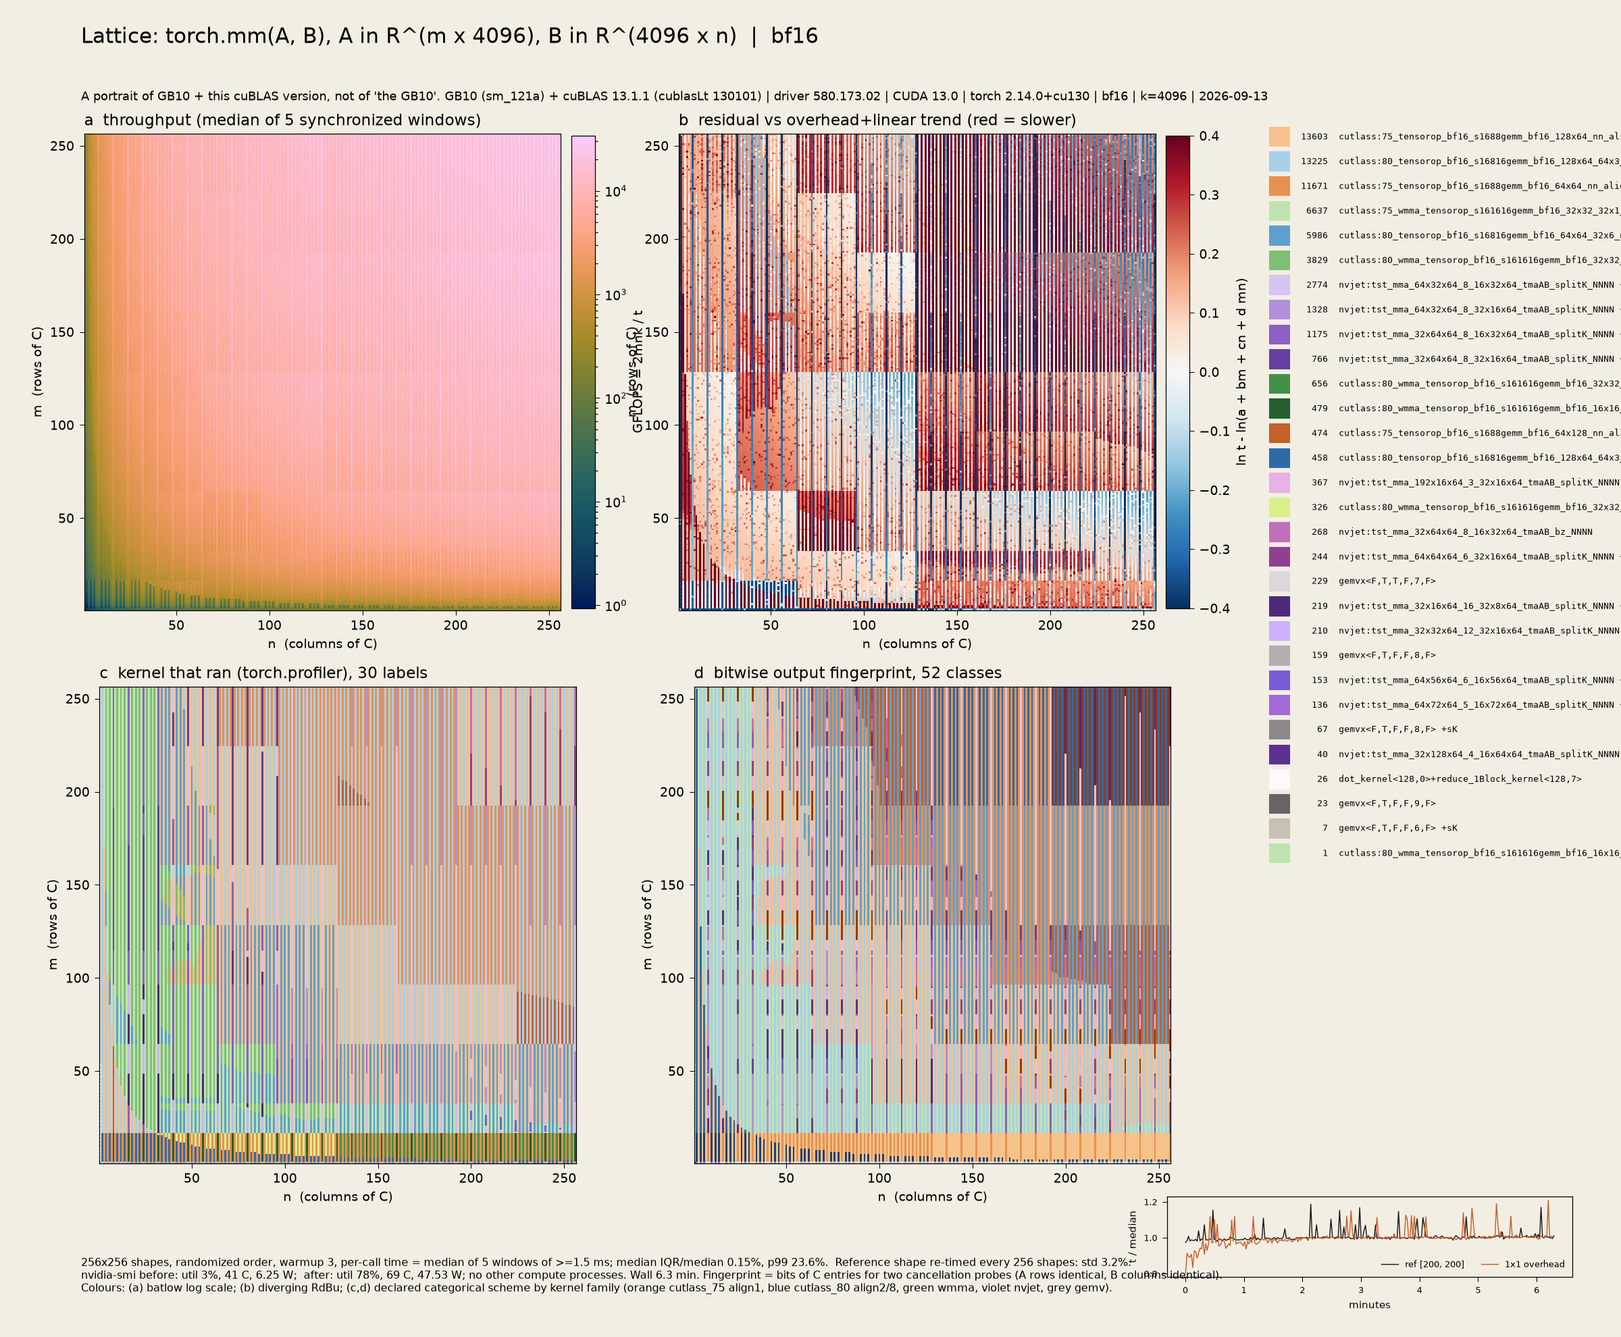
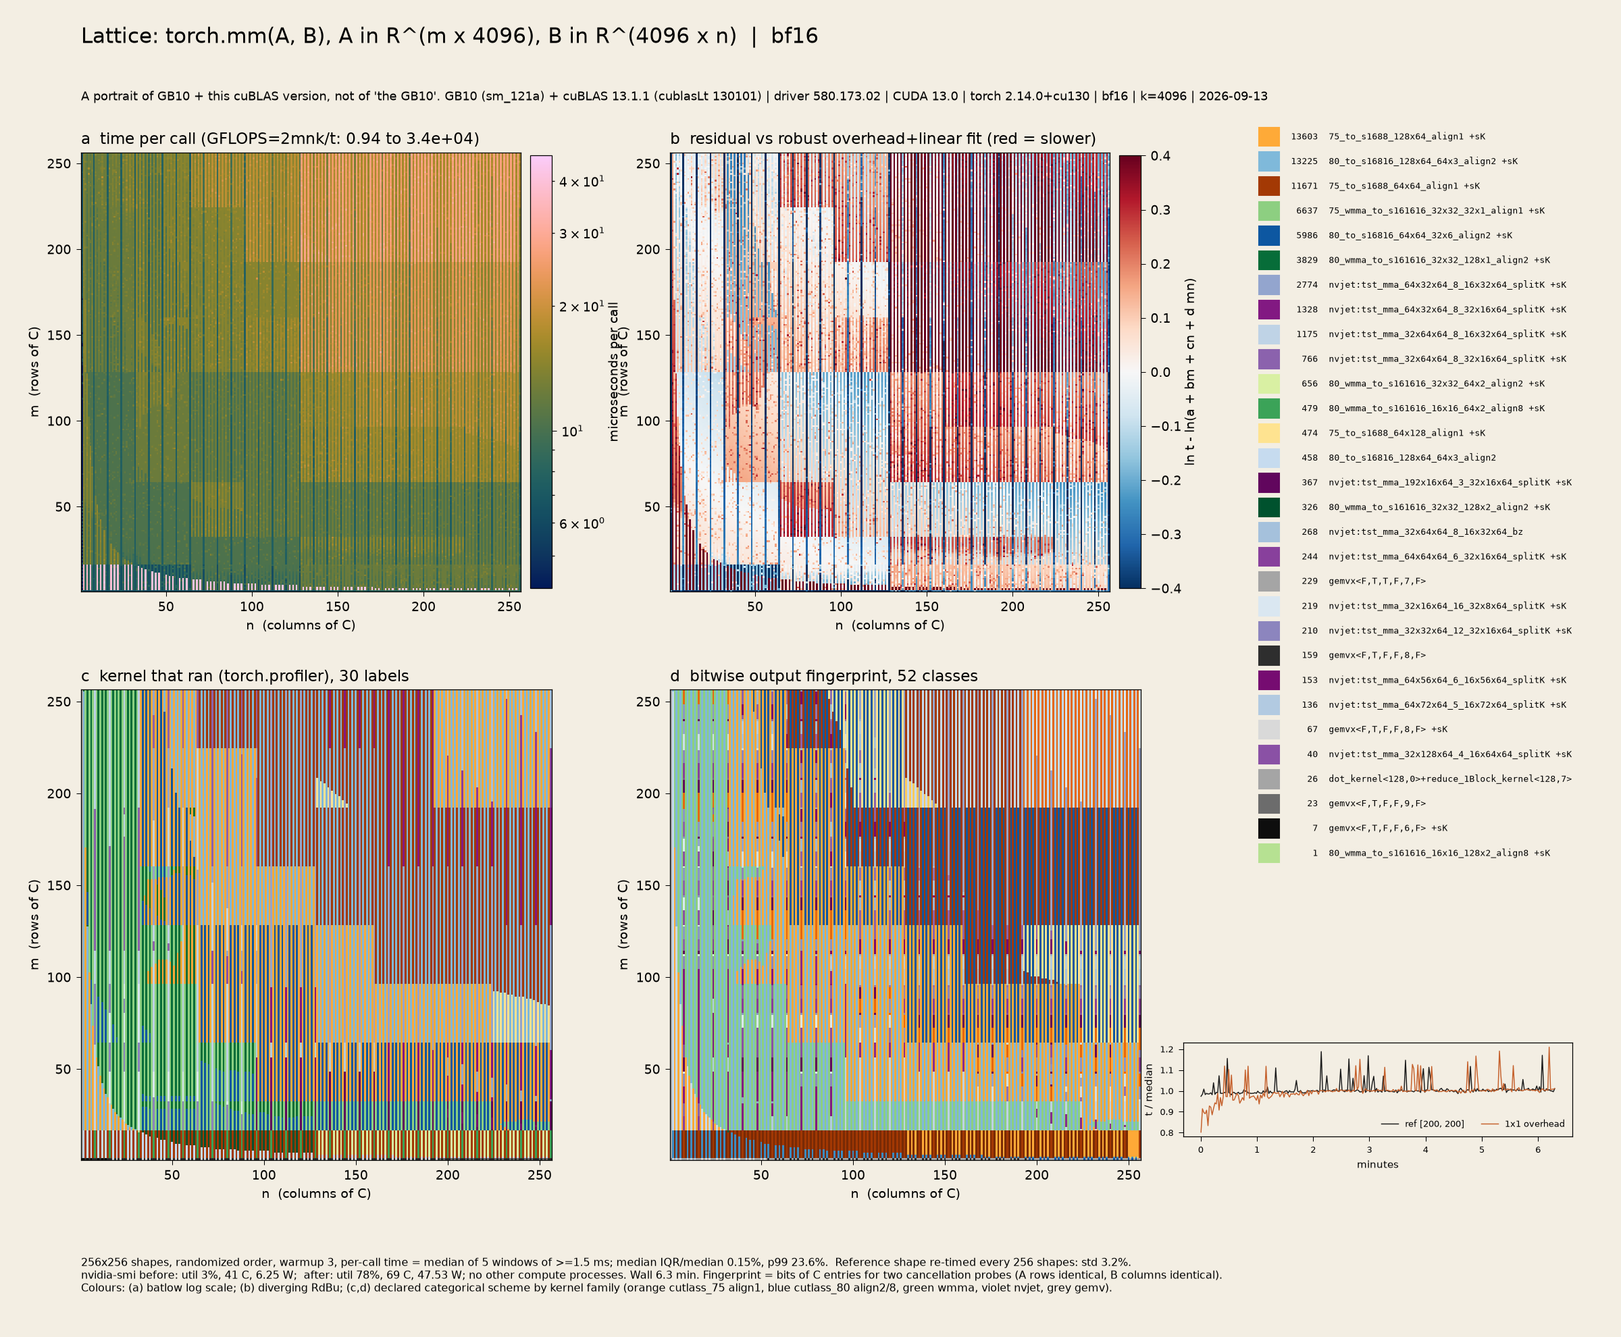
hardware/lattice: fp16/fp32/tf32 [1,256]^2 sweeps, retest, spectral/fire/mosaic/riso/contour plates, dtype triptych, tf32 diptych, alignment close-up, NOTES

diff --git a/hardware/lattice/render_compare.py b/hardware/lattice/render_compare.py
@@ -1,0 +1,138 @@
+"""render_compare.py - cross-run plates and statistics (no GPU):
+dtype triptych, allow_tf32 diptych, test-retest noise, alignment close-up, alignment statistics -> cache/stats.json.
+    OMP_NUM_THREADS=1 taskset -c 0-4 python render_compare.py
+"""
+import json
+import numpy as np
+import matplotlib; matplotlib.use("Agg")
+import matplotlib.pyplot as plt
+from render import *
+
+TAGS = dict(bf16="bf16_g256_k4096", fp16="fp16_g256_k4096", fp32="fp32_g256_k4096", fp32_tf32="fp32_tf32_g256_k4096")
+
+
+def align_stats(T, lo=33):
+    """Median over m of t(n) ratios by residue of n (n, m >= lo), relative to all n in the same row."""
+    G = T["G"]; t = T["t_med"].reshape(G, G); v = T["grid"]
+    sel = v >= lo
+    tt = t[np.ix_(sel, sel)]; nv = v[sel]
+    rel = tt / np.median(tt, axis=1, keepdims=True)
+    out = {}
+    for mod in (2, 4, 8, 16, 32, 64):
+        z = nv % mod == 0
+        out[f"n%{mod}==0 vs rest"] = float(np.median(rel[:, z]) / np.median(rel[:, ~z]))
+    mv = v[sel]; relm = tt / np.median(tt, axis=0, keepdims=True)
+    for mod in (2, 8, 16):
+        z = mv % mod == 0
+        out[f"m%{mod}==0 vs rest"] = float(np.median(relm[z]) / np.median(relm[~z]))
+    out["n odd / n even"] = float(np.median(rel[:, nv % 2 == 1]) / np.median(rel[:, nv % 2 == 0]))
+    return out
+
+
+def triptych(runs, stats):
+    fig, axs = plt.subplots(1, 3, figsize=(18, 6.6), facecolor=NIGHT)
+    for ax, (dt, (T, K)) in zip(axs, runs.items()):
+        r, _ = trend_residual(T)
+        ax.imshow(P.render_split(r, "sd_spectral"), origin="lower", extent=[.5, 256.5, .5, 256.5], interpolation="nearest")
+        ax.set_xticks([]); ax.set_yticks([])
+        nk = len(set(kernel_label(s) for s in K["names"])); nf = len(set(map(tuple, T["fp"])))
+        ax.set_title(f"{dt}   {nk} kernels  {nf} fingerprints   odd/even-n time x{stats[dt]['n odd / n even']:.2f}",
+                     color="#ddd", fontsize=10, loc="left")
+    fig.text(.01, .02, "Residual ln t vs robust overhead+linear fit, per-side rank-normalised Sohl-Dickstein Spectral split at 0 "
+             "(purple = faster than trend, red = slower; declared). m up, n right, [1,256]^2, k = 4096.   "
+             + stack_line(runs["bf16"][0]["info"]).split(" | bf16")[0] + " | " + runs["bf16"][0]["info"]["stack"]["date"],
+             color="#aaa", fontsize=8)
+    fig.subplots_adjust(left=.01, right=.99, top=.93, bottom=.06, wspace=.03)
+    fig.savefig(f"{GAL}/dtype_triptych_spectral.png", dpi=130, facecolor=NIGHT); plt.close(fig)
+    print("wrote triptych")
+
+
+def tf32_diptych(off, on):
+    T0, K0 = off; T1, K1 = on; G = T0["G"]
+    lr = np.log(T0["t_med"] / T1["t_med"]).reshape(G, G)        # > 0: TF32 faster
+    save_rgb(P.render_split(-lr, "sd_spectral"), "tf32_ratio_spectral", 8)
+    l0 = [kernel_label(s) for s in K0["names"]]; l1 = [kernel_label(s) for s in K1["names"]]
+    same = np.array([a == b for a, b in zip(l0, l1)]).reshape(G, G)
+    fig, axs = plt.subplots(1, 3, figsize=(18, 6.6), facecolor=PAPER)
+    for ax, (T, K, ttl) in zip(axs[:2], [(T0, K0, "allow_tf32 = False"), (T1, K1, "allow_tf32 = True")]):
+        kid, kv = categorize([kernel_label(s) for s in K["names"]], G)
+        ax.imshow(mosaic_rgb(kid, kernel_colors(kv)), origin="lower", extent=[.5, 256.5, .5, 256.5], interpolation="nearest")
+        ax.set_title(f"{ttl}: {len(kv)} kernel labels; top: {short_label(kv[0][0])[:38]}", loc="left", fontsize=9)
+    im = axs[2].imshow(np.exp(lr), origin="lower", extent=[.5, 256.5, .5, 256.5], cmap="PuOr_r",
+                       norm=matplotlib.colors.LogNorm(vmin=1 / 3, vmax=3), interpolation="nearest")
+    cb = fig.colorbar(im, ax=axs[2], fraction=.046, pad=.02); cb.set_label("t(off) / t(on)   (>1: TF32 faster)")
+    cb.set_ticks([1 / 3, .5, 1, 2, 3]); cb.set_ticklabels(["1/3", "1/2", "1", "2", "3"]); cb.minorticks_off()
+    axs[2].set_title(f"speed-up; same kernel at {100*same.mean():.1f}% of shapes; median x{np.median(np.exp(lr)):.2f}", loc="left", fontsize=9)
+    for ax in axs:
+        ax.set_xlabel("n"); ax.set_ylabel("m"); ax.set_facecolor(PAPER)
+    fig.suptitle("fp32 matmul with and without TF32 - GB10 + cuBLAS " + T0["info"]["stack"]["cublas"], x=.01, ha="left")
+    fig.text(.01, .01, stack_line(T0["info"]), fontsize=7.5)
+    fig.subplots_adjust(left=.04, right=.97, top=.88, bottom=.1, wspace=.22)
+    fig.savefig(f"{GAL}/tf32_diptych_plate.png", dpi=130, facecolor=PAPER); plt.close(fig)
+    return dict(tf32_same_kernel_frac=float(same.mean()), tf32_median_speedup=float(np.median(np.exp(lr))),
+                tf32_max_speedup=float(np.exp(lr).max()), tf32_min_speedup=float(np.exp(lr).min()))
+
+
+def retest(T256, R):
+    G = R["G"]; a = T256["t_med"].reshape(256, 256)[:G, :G]; b = R["t_med"].reshape(G, G)
+    lr = np.log(b / a)
+    fa = T256["fp"].reshape(256, 256, -1)[:G, :G].reshape(G * G, -1)
+    st = dict(retest_median_abs_log_ratio=float(np.median(np.abs(lr))), retest_frac_gt_5pct=float((np.abs(lr) > np.log(1.05)).mean()),
+              retest_fp_identical_frac=float((fa == R["fp"]).all(1).mean()), retest_iqr_median=float(np.median(R["iqr"])),
+              retest_ref_std=float(R["ref"][:, 2].std() / np.median(R["ref"][:, 2])))
+    return st, lr
+
+
+def closeup_plate(R, K, lr):
+    G = R["G"]; r, _ = trend_residual(R)
+    kid, kv = categorize([kernel_label(s) for s in K["names"]], 256)
+    kid = kid[:G, :G]
+    fig = plt.figure(figsize=(15, 8.4), facecolor=PAPER)
+    ax = fig.add_axes([.04, .1, .5, .8]); ax2 = fig.add_axes([.6, .55, .36, .35]); ax3 = fig.add_axes([.6, .1, .36, .33])
+    ax.imshow(P.render_split(r, "sd_spectral"), origin="lower", extent=[.5, G + .5, .5, G + .5], interpolation="nearest")
+    ed = boundaries(kid)
+    yy, xx = np.nonzero(ed)
+    for g in range(8, G + 1, 8):
+        ax.axvline(g + .5, color=INK, lw=.35 if g % 32 else .9, alpha=.55); ax.axhline(g + .5, color=INK, lw=.35 if g % 32 else .9, alpha=.55)
+    ax.set_xticks(range(0, G + 1, 16)); ax.set_yticks(range(0, G + 1, 16)); ax.set_xlabel("n"); ax.set_ylabel("m")
+    ax.set_title("[1,128]^2 re-measured (seed 1, 9 windows of 3 ms): residual, Spectral split at 0; hairlines every 8, bold every 32", loc="left", fontsize=9)
+    v = R["grid"]; t = R["t_med"].reshape(G, G); sel = v >= 17
+    rel = t[np.ix_(sel, sel)] / np.median(t[np.ix_(sel, sel)], axis=1, keepdims=True)
+    res = [np.median(rel[:, (v[sel] % 8) == q]) for q in range(8)]
+    ax2.bar(range(8), res, color=["#5e4fa2" if q == 0 else ("#3288bd" if q % 2 == 0 else "#9e0142") for q in range(8)])
+    ax2.set_ylim(min(res) * .95, max(res) * 1.03); ax2.set_xlabel("n mod 8"); ax2.set_ylabel("t / row median  (m, n >= 17)")
+    ax2.set_facecolor(PAPER)
+    im = ax3.imshow(lr, origin="lower", cmap="RdBu_r", vmin=-.1, vmax=.1, extent=[.5, G + .5, .5, G + .5], interpolation="nearest")
+    fig.colorbar(im, ax=ax3, fraction=.046, pad=.02).set_label("ln(t retest / t first run)")
+    ax3.set_title("test-retest (independent random order)", loc="left", fontsize=9); ax3.set_facecolor(PAPER)
+    fig.text(.04, .02, "Alignment close-up, bf16. " + stack_line(R["info"]), fontsize=7.5)
+    fig.savefig(f"{GAL}/alignment_closeup_plate.png", dpi=150, facecolor=PAPER); plt.close(fig)
+    save_rgb(P.render_split(r, "sd_spectral"), "alignment_closeup_spectral", 16)
+
+
+def main():
+    stats = {}
+    runs = {dt: (load("time", t), load("kernels", t)) for dt, t in TAGS.items() if exists("time", t) and exists("kernels", t)}
+    for dt, (T, K) in runs.items():
+        stats[dt] = align_stats(T)
+        stats[dt].update(n_kernels=len(set(kernel_label(s) for s in K["names"])), n_fp=len(set(map(tuple, T["fp"]))),
+                         iqr_median=float(np.median(T["iqr"])), iqr_p99=float(np.percentile(T["iqr"], 99)),
+                         ref_std=float(T["ref"][:, 2].std() / np.median(T["ref"][:, 2])),
+                         one_range_us=[float(T["ref"][:, 3].min() * 1e6), float(T["ref"][:, 3].max() * 1e6)],
+                         t_us=[float(T["t_med"].min() * 1e6), float(T["t_med"].max() * 1e6)],
+                         gflops_max=float(gflops(T).max()), smi_before=T["info"]["smi_before"], smi_after=T["info"]["smi_after"],
+                         wall_min=T["info"]["wall_s"] / 60)
+    if all(d in runs for d in ("bf16", "fp16", "fp32")):
+        triptych({d: runs[d] for d in ("bf16", "fp16", "fp32")}, stats)
+    if "fp32" in runs and "fp32_tf32" in runs:
+        stats["tf32"] = tf32_diptych(runs["fp32"], runs["fp32_tf32"])
+    if exists("time", "bf16_g128_k4096_retest") and "bf16" in runs:
+        R = load("time", "bf16_g128_k4096_retest")
+        st, lr = retest(runs["bf16"][0], R); stats["retest"] = st
+        closeup_plate(R, runs["bf16"][1], lr)
+    json.dump(stats, open(f"{CACHE}/stats.json", "w"), indent=1)
+    print(json.dumps({k: {kk: vv for kk, vv in v.items() if "smi" not in kk} for k, v in stats.items()}, indent=1))
+
+
+if __name__ == "__main__":
+    main()

diff --git a/hardware/lattice/render.py b/hardware/lattice/render.py
@@ -53,25 +53,25 @@ def save_rgb(img, name, scale=1):
     print("wrote", name, a.shape)
 
 
-FAMILY = [  # (substring, base hue colours light->dark) : declared categorical scheme by kernel family
-    ("s1688gemm", ["#f6c28b", "#e8914f", "#c5602b", "#8f3b1b"]),            # cutlass_75 tensorop, align1
-    ("s16816gemm", ["#a9cfe8", "#5e9fd0", "#2f6aa8", "#1b3f73"]),           # cutlass_80 tensorop, align2/8
-    ("wmma", ["#bfe3b0", "#7fbf73", "#43904a", "#23602f", "#d9ef8b"]),      # cutlass wmma
-    ("simt_sgemm", ["#f2b6c6", "#d9738f", "#a8425f", "#6e2340"]),           # fp32 cutlass simt
-    ("nvjet", ["#d7c3ef", "#b08fdb", "#8a60c4", "#6440a0", "#e7b0e6", "#c070b9", "#91408f", "#4b2a78",
-               "#cfb0ff", "#7a5bd6", "#a36bd8", "#5a3190"]),                   # nvjet (cublasLt JIT-ish)
-    ("gemmSN", ["#f7e08a", "#d6b23c"]),                                     # small-n gemm
-    ("gemvx", ["#d9d9d9", "#b0b0b0", "#8a8a8a", "#666666", "#c8c0b0"]),     # vector cases
-    ("dot_kernel", ["#fafafa"]), ("", ["#555555", "#777777", "#999999"]),
+FAMILY = [  # (substring in kernel label, matplotlib sequential map): declared categorical scheme = hue by kernel family,
+    # members of a family take interleaved positions along that ramp (so neighbours by area rank contrast in lightness)
+    ("s1688gemm", "YlOrBr"),       # cutlass_75 tensorop s1688 (align1)
+    ("s16816gemm", "Blues"),       # cutlass_80 tensorop s16816 (align2/8)
+    ("wmma", "YlGn"),              # cutlass wmma
+    ("simt_sgemm", "RdPu"),        # fp32 cutlass simt sgemm
+    ("nvjet", "BuPu"),             # cublasLt nvjet
+    ("gemmSN", "Wistia"),          # small-matrix gemm
+    ("gemvx", "Greys"), ("dot_kernel", "Greys"), ("", "Greys"),
 ]
+POS = [.45, .85, .25, .65, .95, .35, .75, .15, .55, .9, .3, .7, .5, .8, .2, .6, .4]
 
 
 def kernel_colors(vocab):
     used = collections.defaultdict(int); cols = []
     for lab, _ in vocab:
-        for key, pal in FAMILY:
+        for key, cm in FAMILY:
             if key in lab:
-                cols.append(pal[used[key] % len(pal)]); used[key] += 1; break
+                cols.append(plt.get_cmap(cm)(POS[used[key] % len(POS)])); used[key] += 1; break
     return cols
 
 
@@ -119,8 +119,10 @@ def plate_spectral(tag, T, scale=8):
 def plate_dark(tag, T, scale=8):
     g = np.log10(gflops(T))
     u = P.rank_normalize(g)
-    save_rgb(plt.get_cmap("cmc.lajolla_r" if "cmc.lajolla_r" in plt.colormaps() else "magma")(u)[..., :3],
-             f"throughput_dark_{tag}", scale)
+    save_rgb(plt.get_cmap("cmc.lajolla")(u)[..., :3], f"throughput_dark_{tag}", scale)
+    r, _ = trend_residual(T)
+    import colorcet  # noqa: F401  (registers cet_ maps)
+    save_rgb(plt.get_cmap("cet_fire")(1 - P.rank_normalize(r))[..., :3], f"lattice_fire_{tag}", scale)
 
 
 def plate_mosaic(tag, T, K, scale=8):
@@ -129,9 +131,19 @@ def plate_mosaic(tag, T, K, scale=8):
     cols = kernel_colors(kv)
     big = np.repeat(np.repeat(kid, scale, 0), scale, 1)
     save_rgb(mosaic_rgb(big, cols), f"dispatch_mosaic_{tag}")
-    ed = boundaries(big)
-    line = np.ones(big.shape + (3,)) * to_rgb(PAPER); line[ed] = to_rgb(INK)
-    save_rgb(line, f"dispatch_lines_{tag}")
+    # parity-split contours: n odd and n even are two interleaved dispatch lattices; draw each one's region
+    # boundaries (computed within its own sub-lattice, so the parity stripes themselves don't become lines)
+    covs = []
+    for off in (0, 1):                      # column index 0 -> n = 1 (odd), 1 -> n = 2 (even)
+        sub = kid[:, off::2]
+        e = np.repeat(np.repeat(sub, scale, 0), 2 * scale, 1)
+        e = binary_dilation(boundaries(e), iterations=1)
+        e = np.roll(e, off * scale, 1)[:, :big.shape[1]]
+        covs.append(e.astype(float))
+    save_rgb(P.overprint([covs[0] * .9, np.roll(covs[1], (2, 3), (0, 1)) * .9], ["#ff48b0", "#0078bf"], paper=PAPER),
+             f"dispatch_contours_riso_{tag}")
+    line = np.ones(big.shape + (3,)) * to_rgb(PAPER); line[(covs[0] + covs[1]) > 0] = to_rgb(INK)
+    save_rgb(line, f"dispatch_contours_ink_{tag}")
     fid, fv, fcols = label_fp_by_kernel(T, K)
     save_rgb(mosaic_rgb(np.repeat(np.repeat(fid, scale, 0), scale, 1), fcols), f"fingerprint_mosaic_{tag}")
     return kid, kv, cols, fid, fv

diff --git a/hardware/lattice/NOTES.md b/hardware/lattice/NOTES.md
@@ -1,24 +1,52 @@
 # Lattice NOTES (living handoff)
 
-## State (2026-09-13 ~22:30)
-- Stack: GB10 sm_121a (cap 12.1), driver 580.173.02, CUDA 13.0, torch 2.14.0+cu130, cuBLAS 13.1.1 (cublasLt 130101), BLAS backend cuBLAS, no CUBLAS_WORKSPACE_CONFIG.
-- Setup: C = torch.mm(A, B), A m x k, B k x n, **k = 4096 fixed**; sweep (m, n). Rows of A identical, columns of B identical
-  (cancellation probes, `sweep.py:masters`) so output bits = shape-independent algorithm fingerprint.
-- `sweep.py` (compute, GPU) -> `cache/{time,kernels}_<dtype>[_tf32]_<grid>_k4096.npz`; `run_all.sh` runs jobs sequentially,
-  waits for GPU <=50 C & idle before each; logs in `logs/` (`campaign.log` has nvidia-smi after each job).
-- `common.py` (load/kernel names), `quicklook.py TAG` (stats + preview), `render.py` (all single-dtype plates).
-- Rendering during sweeps is pinned: `OMP_NUM_THREADS=1 taskset -c 0-4` (A725 efficiency cores).
+## Setup
+- Stack: GB10 sm_121a (capability 12.1), driver 580.173.02, CUDA 13.0, torch 2.14.0+cu130, **cuBLAS 13.1.1 (cublasLt 130101)**,
+  BLAS backend cuBLAS, CUBLAS_WORKSPACE_CONFIG unset, date 2026-09-13.
+- C = torch.mm(A, B, out=C), A m x k, B k x n, **k = 4096 fixed**; sweep (m, n). All rows of A identical, all columns of B identical
+  (cancellation probes, `sweep.py:masters`: 64 products of +-2^E that cancel exactly + 4032 small ones), so output bits are a
+  shape-independent fingerprint of accumulation order/precision. Two probes per dtype (E from PROBE_E).
+- Timing per shape: 3 warmup, 1 estimate, N calls per window so window >= 1.5 ms, median of 5 windows. Randomized order (seed 0).
+  Every 256 shapes: reference 200x200 and 1x1 re-timed. nvidia-smi + compute-apps + loadavg logged before/after (in npz info + logs/campaign.log).
+- Kernel names: `--mode kernels`, torch.profiler chrome trace, kernels mapped to shapes via correlation id -> cuda_runtime/cuda_driver launch ts -> record_function range.
+- Files: `sweep.py` (GPU), `run_all.sh` (sequential jobs; waits for GPU <= 50 C and util <= 5 % before each), `common.py`, `quicklook.py TAG`,
+  `render.py` (per-run plates), `render_compare.py` (triptych, tf32, retest, alignment close-up, writes `cache/stats.json`).
+  cache/ is gitignored (npz ~ few MB each).
+- Rendering during sweeps: `OMP_NUM_THREADS=1 taskset -c 0-4 nice` (A725 cores 0-4,10-14; X925 = 5-9,15-19).
 
-## Findings so far (bf16, [1,256]^2, 6.3 min)
-- 30 kernel labels (profiler): cutlass_75 s1688 align1 (odd n), cutlass_80 s16816 align2 (even n), wmma 32x32, nvjet tst_mma (several tilings),
-  gemvx for m=1 or n=1, dot for 1x1. Vertical stripes = parity of n; horizontal bands at m = 16, 32, 64, 128, 192, 224; hyperbolic boundaries (m*n const) at small sizes.
-- 52 fingerprint classes; purity kernel->fp 0.79, fp->kernel 0.87 (fingerprints split nvjet by tiling, merge some cutlass).
-- Timing: t 4.2-46 us/call; median IQR/median 0.15 %, p99 24 %; ref (200x200) std 3.2 %; 1x1 overhead probe ramps 0.8->1.0 in first 30 s then flat.
+## Done (all clean: no other compute apps; start temp <= 50 C, util 0-3 %)
+| run | wall | kernels | fp classes | IQR/med median, p99 | ref std | odd/even-n time | n%8==0 time vs rest |
+|---|---|---|---|---|---|---|---|
+| bf16 g256 | 6.3 min | 30 | 52 | 0.15 %, 24 % | 3.2 % | 1.29 | 0.70 |
+| fp16 g256 | 6.2 | 36 | 55 | 0.17 %, 26 % | 3.2 % | 1.24 | 0.72 |
+| fp32 g256 | 7.1 | 18 | 14 | 0.12 %, 28 % | 3.0 % | 1.00 | 1.00 (n%64: 0.95) |
+| fp32 tf32 g256 | 6.6 | 16 | 13 | 0.14 %, 31 % | 3.4 % | 1.02 | 0.85 |
+| bf16 g128 retest (seed 1, 9x3 ms) | ~5 | - | 100 % identical fp to first run | 0.11 % | 0.29 % | - | n%8==0: 0.64x row median |
+- Test-retest (bf16 [1,128]^2, independent order): median |ln t2/t1| = 0.28 %, 9.8 % of shapes differ > 5 % (isolated speckle, no structure);
+  fingerprints bitwise identical at 100 % of shapes -> dispatch is deterministic, timing speckle is noise.
+- TF32: same kernel at only 0.8 % of shapes; median speed-up x1.50 (range 0.54-5.2).
+- 1x1 overhead probe 6.1-9.7 us; ramps up ~20 % in the first ~30 s of each run then flat (CPU-side warm state), ref 200x200 flat with spikes to 1.2.
+- Temperature rises 41 -> ~69 C during a 6-min sweep (GPU at ~78 % util, 48 W).
+- Structure: bf16/fp16 = vertical stripes by n parity (cutlass_75 s1688 align1 for odd n, cutlass_80 s16816 align2 for even n, align8/wmma
+  on multiples of 8), horizontal bands at m = 16/32/64/128/192/224, hyperbolic (m*n = const) boundaries at small sizes, nvjet islands.
+  fp32 = no alignment stripes, large polygonal cells of cutlass simt sgemm tilings (128x32, 64x64, 128x64...) with smooth internal gradients.
+  Rows of C (m) never alternate; only n (columns of C = rows of cuBLAS's column-major output... columns in torch) carries alignment.
 
-## Campaign queued (nohup run_all.sh, started 22:21): fp16 g256, fp32 g256, fp32 tf32 g256 (+kernels each),
-  bf16 g128 retest (seed 1, reps 9, 3 ms windows, tag _retest), s2048 (stride 13) bf16/fp16/fp32 (+kernels).
-  Check `logs/campaign.log`; it ends with "=== ... done".
+## Gallery (gallery/)
+- Per run TAG (bf16/fp16/fp32/fp32_tf32 _g256_k4096): lattice_spectral_TAG (hero, SD Spectral split of residual), lattice_aurora_ember/
+  cyanotype_vandyke (palettes.py pairings), lattice_fire_TAG (dark, cet_fire of rank residual), throughput_dark_TAG (lajolla rank GFLOPS),
+  dispatch_mosaic_TAG, fingerprint_mosaic_TAG, dispatch_contours_riso_TAG (pink = odd-n sub-lattice region contours, blue = even-n),
+  dispatch_contours_ink_TAG, riso_closeup_TAG_1-128, plate_TAG (scientific plate with stack caption).
+- dtype_triptych_spectral.png, tf32_diptych_plate.png, tf32_ratio_spectral.png, alignment_closeup_plate.png, alignment_closeup_spectral.png.
+- Viewed: fp32 dispatch mosaic (RdPu cells) is excellent; bf16/fp16 mosaics read grey when downscaled (parity stripes average) - fine at full res.
+  alignment_closeup_plate: retest panel is small, could be enlarged.
+- Strongest so far: lattice_spectral_fp32_g256_k4096.png, lattice_spectral_bf16_g256_k4096.png, dtype_triptych_spectral.png.
 
-## Next
-- render_compare.py: dtype triptych, tf32 ratio diptych (Spectral split at ratio 1), retest noise map, alignment close-up plate with mod-8 grid.
-- README with gallery; commit via `art/_shared/commit.sh hardware/lattice "..."`.
+## Next (successor)
+1. Large sweep (not yet run; campaign runner stopped deliberately at handoff so no background process remains):
+   `cd hardware/lattice && nohup ./run_all.sh "--dtype bf16 --grid s2048" "--dtype bf16 --grid s2048 --mode kernels" "--dtype fp16 --grid s2048" "--dtype fp16 --grid s2048 --mode kernels" "--dtype fp32 --grid s2048" "--dtype fp32 --grid s2048 --mode kernels" > logs/nohup3.txt 2>&1 &`
+   (stride-13 grid 13..2041, 157^2 shapes; est. 5-10 min per timing job). Then `python render.py` (handles s2048 tags, scale 13) and look for cliffs.
+2. View new palette mosaics (render.py FAMILY now uses interleaved positions on per-family matplotlib ramps) and the alignment close-up plate; fix weaknesses.
+3. README.md (hook, phenomenon, hero, gallery with captions "GB10 + cuBLAS 13.1.1", what was computed, verification incl. retest + fingerprint/kernel purity
+   (bf16: kernel->fp 0.79, fp->kernel 0.87), caveats: map of software not silicon; overhead-dominated small shapes; residual detrend is declared).
+4. Commit: `/home/fzeng/ml/research/art/_shared/commit.sh hardware/lattice "..."`.
